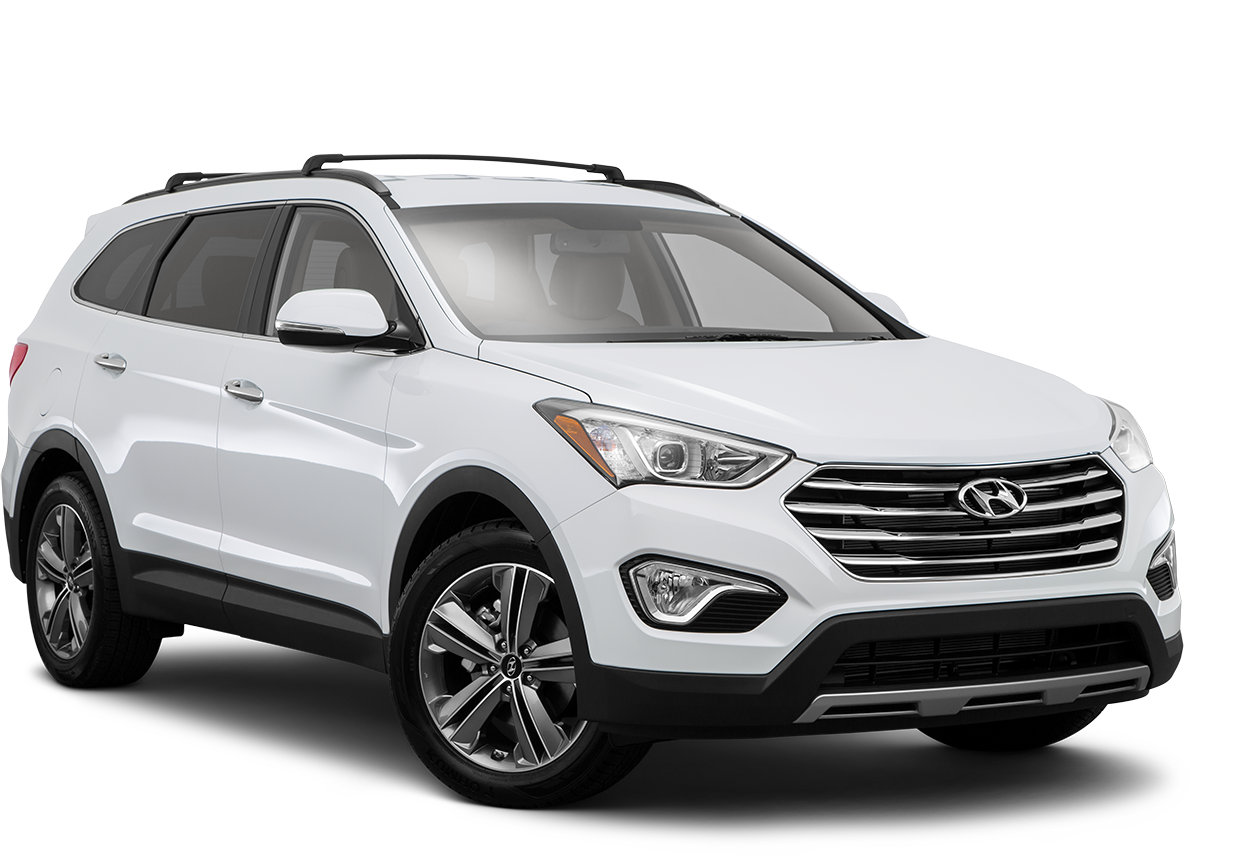
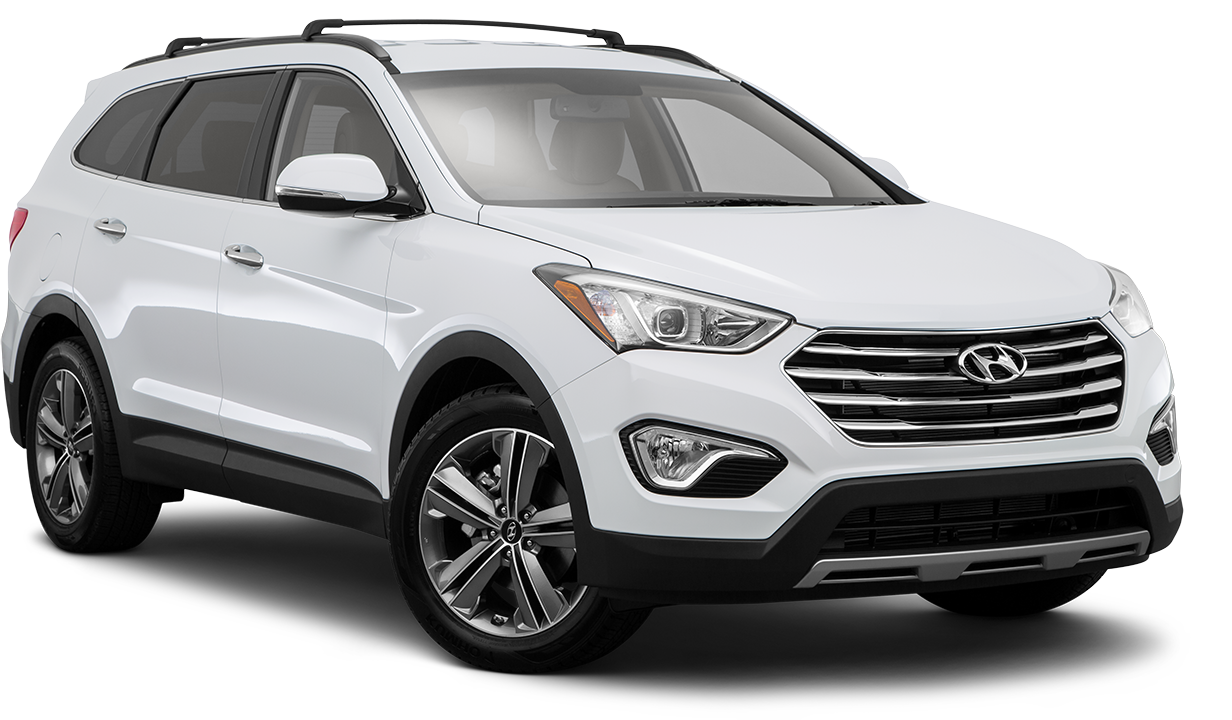
updated vehicle images, css, and php

diff --git a/styles/vehiclerentals.css b/styles/vehiclerentals.css
@@ -16,7 +16,7 @@
     --greenIvory: #2B9348;
 }
 /* Content Styling */
-main {
+main{
     padding: 3em 0;
     display: flex;
     flex-direction: column;
@@ -24,6 +24,13 @@ main {
     justify-content: space-evenly;
 }
 /* Form Styling */
+#vehicle__image{
+    width: 92.3%;
+    margin: 0 auto;
+    height: 600px;
+    object-fit: cover;
+    object-position: 70% 20%;;
+}
 form{
     background: linear-gradient(var(--mustardYellow), var(--darkSienna));
     color: white;
@@ -31,15 +38,15 @@ form{
     flex-flow: wrap row;
     align-items: center;
     justify-content: center;
-    padding: 2em 1em 2em 1em;
-    width: 75%;
+    padding: 2em 1em 1.4em 1em;
+    width: 90%;
     margin: 0 auto;
     text-align: center;
-    border-bottom: 2px solid grey;
-    border-left: 2px solid grey;
 }
 .form__input{
     padding: 0 7px 0 7px;
+    flex-wrap: wrap;
+    padding-bottom: 1em;
 }
 #puLocation:focus,#puDate:focus,#rDate:focus,#form__submit_btn:focus{outline: none;}
 input{
@@ -56,39 +63,43 @@ input{
     color: white;
 }
 /* Car Rental Deals */
-.deals{
+.products{
     padding: 2em 0;
   }
-.deals h2{
+.products h2{
     border-bottom: 1px solid lightgrey;
 }
-.deals__popular h3,
-.deals__budget h3{
+.products__popular h3{
     width: 100%;
 }
-.deals__popular{
+.products__popular p:nth-child(1){
+    margin: 0;
+}
+.products__popular p:nth-child(2){
+    margin: 0 0 20px 0;
+}
+.products__popular{
     display: flex;
     flex-direction: row;
     flex-wrap: wrap;
     padding: 2em 3em 3em 3em;
     justify-content: space-evenly;
 }
-.deals__popular_opt{
+.products__popular_opt{
     padding: 2em;
     margin-bottom: 1em;
     border: 1px solid black;
+    border-radius: 5px;
 }
-.deals__popular_opt img{
-    height: 200px;
-    width: 200px;
-    object-fit: cover;
+.products__popular_opt img{
+    height: 170px;
+    width: 250px;
 }
-.deals__popular_opt a{
+.products__popular_opt a{
     color: black;
     text-decoration: none;
     transition: 0.3s;
 }
-.deals__popular_opt a:hover {
-    color: dimgray;
+.products__popular_opt a:hover {
+    color: rgb(138, 138, 138);
 }
-  

diff --git a/vehicles.php b/vehicles.php
@@ -3,7 +3,7 @@
 require_once 'library/functions.php';
 //Add unqiue css files here
 // $css = array('path to css file', 'oath to another css file', etc.);
-$css = array("styles/vehicles.css");
+$css = array('styles/vehiclerentals.css');
 require_once 'views/header.php';
 
 ?>
@@ -12,6 +12,7 @@ require_once 'views/header.php';
 <main>
     <h2>Rent A Vehicle</h2>
     <!-- FORM -->
+    <img src="images/vehicles/13-pexels-photo-4090350.jpeg" height="600" id="vehicle__image">
     <form method="POST" action="#">
         <div class="form__input">
           <label for="puLocation">Pick Up Location</label>
@@ -33,55 +34,55 @@ require_once 'views/header.php';
         </div>
     </form>
     <!-- Car Rental Deals -->
-    <div class="deals">
+    <div class="products">
         <h2>Choose Your Vehicle</h2>
-        <div class="deals__popular">
+        <div class="products__popular">
             <h3>Top Car Deals</h3>
-            <div class="deals__popular_opt">
+            <div class="products__popular_opt">
                 <a href="#">
-                    <p>Maserati Levante</p><p>CA $63.00/Day - (Company)</p>
+                    <p>Citreon</p><p>CA $63.00/Day</p>
                     <img src="images/vehicles/2-Citroen.png" height="200" alt="Image of a car model">
                 </a>
             </div>
-            <div class="deals__popular_opt">
+            <div class="products__popular_opt">
                 <a href="#">
-                    <p>Audi Q8</p><p>CA $80.00/Day - (Company)</p>
+                    <p>Hyundai Santa Fe</p><p>CA $80.00/Day</p>
                     <img src="images/vehicles/3-Hyundai-Santa-Fe.png" height="200" alt="Image of a car model">
                 </a>
             </div>
-            <div class="deals__popular_opt">
+            <div class="products__popular_opt">
                 <a href="#">
-                    <p>Maserati Levante</p><p>CA $63.00/Day - (Company)</p>
+                    <p>Audi Q7</p><p>CA $68.88/Day</p>
                     <img src="images/vehicles/4-Audi-Q7png.png" height="200" alt="Image of a car model">
                 </a>
             </div>
-            <div class="deals__popular_opt">
+            <div class="products__popular_opt">
                 <a href="#">
-                    <p>Maserati Levante</p><p>CA $63.00/Day - (Company)</p>
-                    <img src="images/vehicles/5-Tesla-Model-S.png" height="200" alt="Image of a car model">
-                </a>
-            </div>
-            <div class="deals__popular_opt">
-                <a href="#">
-                    <p>Maserati Levante</p><p>CA $63.00/Day - (Company)</p>
-                    <img src="images/vehicles/6-Mazda-3.png" height="200" alt="Image of a car model">
-                </a>
-            </div>
-            <div class="deals__popular_opt">
-                <a href="#">
-                    <p>Audi Q8</p><p>CA $80.00/Day - (Company)</p>
-                    <img src="images/vehicles/7-Bmw-3.png" height="200" alt="Image of a car model">
-                </a>
-            </div>
-            <div class="deals__popular_opt">
-                <a href="#">
-                    <p>Maserati Levante</p><p>CA $63.00/Day - (Company)</p>
+                    <p>Tesla Model S</p><p>CA $63.50/Day</p>
                     <img src="images/vehicles/8-Suzuki-Celerio.png" height="200" alt="Image of a car model">
                 </a>
             </div>
-            <div class="deals__popular_opt">
+            <div class="products__popular_opt">
                 <a href="#">
-                    <p>Maserati Levante</p><p>CA $63.00/Day - (Company)</p>
+                    <p>Maserati Levante</p><p>CA $63.00/Day</p>
+                    <img src="images/vehicles/6-Mazda-3.png" height="200" alt="Image of a car model">
+                </a>
+            </div>
+            <div class="products__popular_opt">
+                <a href="#">
+                    <p>Audi Q8</p><p>CA $70.00/Day</p>
+                    <img src="images/vehicles/7-Bmw-3.png" height="200" alt="Image of a car model">
+                </a>
+            </div>
+            <div class="products__popular_opt">
+                <a href="#">
+                    <p>Maserati Levante</p><p>CA $70.20/Day</p>
+                    <img src="images/vehicles/9-Honda-Clarity.png" height="200" alt="Image of a car model">
+                </a>
+            </div>
+            <div class="products__popular_opt">
+                <a href="#">
+                    <p>Maserati Levante</p><p>CA $57.70/Day</p>
                     <img src="images/vehicles/10-Mitsubishi-Lancer.png" height="200" alt="Image of a car model">
                 </a>
             </div>
